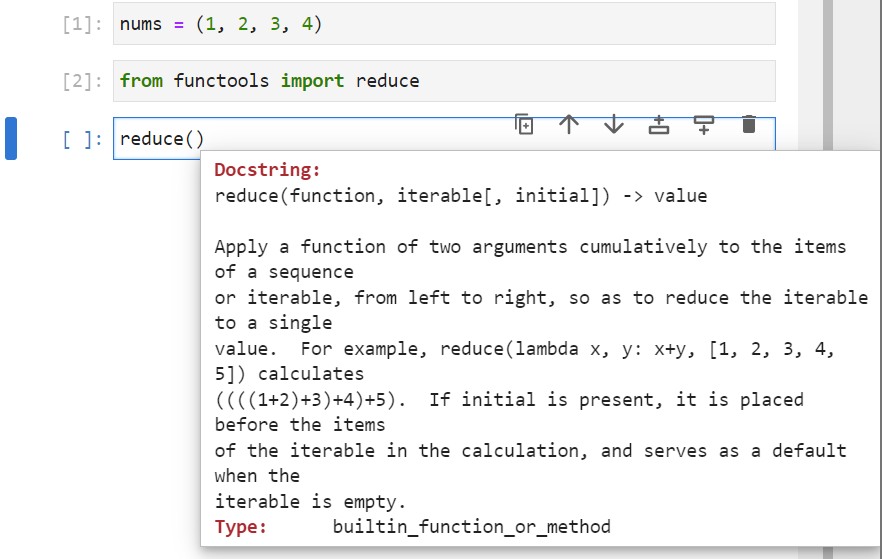
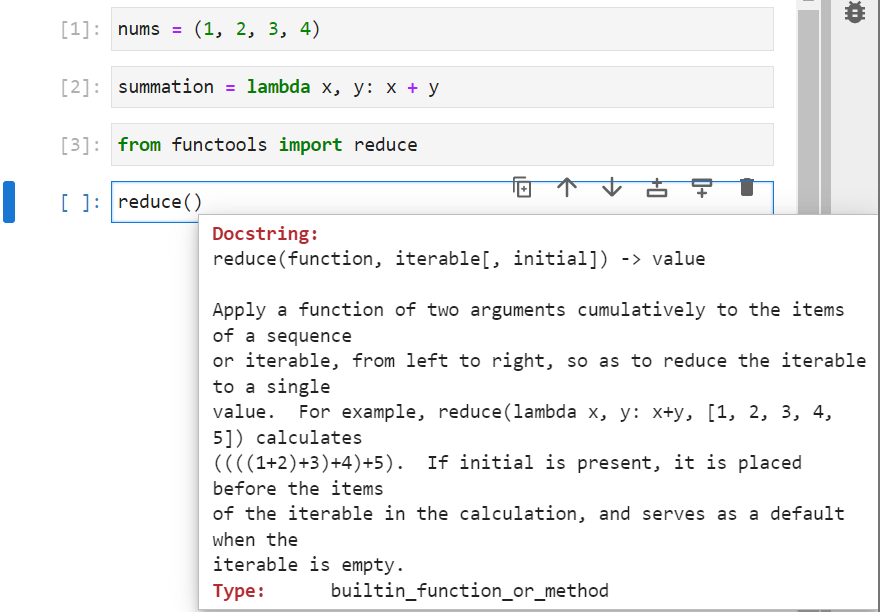
Update

Changed region(s): [[0.0614, 0.0, 1.0, 1.0], [0.0614, 0.0304, 0.3682, 0.0608], [0.0, 0.2129, 0.0307, 0.3649]]

diff --git a/007_code_blocks_a/readme.md b/007_code_blocks_a/readme.md
@@ -3236,7 +3236,11 @@ Sometimes it is desirable to ```reduce``` an iterable into a single value:
 nums = (1, 2, 3, 4)
 ```
 
-For example to calculate the sum or product of the iterable above.
+The following lambda expression will reduce two variables to a singular variable:
+
+```
+summation = lambda x, y: x + y
+```
 
 This can be done using the ```reduce``` function found in the ```functools``` module:
 
@@ -3246,32 +3250,26 @@ from functools import reduce
 
 ![img_265](./images/img_265.png)
 
-
-
-
-
-
-
-
-
-
-
-
-
-
-reduce(function, iterable)
-
 ```
-from functools import reduce
-reduce((lambda x, y: x + y), [1, 2, 3, 4])
+reduce(summation, nums)
 ```
 
-Under the hood, conceptualise this as a ```for``` loop. In the first iteration. ```x``` is initially ```1``` the value at the 0th index and ```y``` is initially ```2``` the value of the 1st index. The result ```x + y``` is therefore ```3```. In the second iteration ```x``` is taken to be this value of ```3``` and ```y``` is taken to be the value at the 2nd index, which is also ```3```. ```x + y``` is therefore ```6```. In the third iteration, ```x``` is taken to be the value of ```6``` and ```y``` is taken to be the value at the last index. The final ```x + y``` calculation is therefore ```10``` which is returned.
+![img_266](./images/img_266.png)
 
+Under the hood, conceptualise this as a ```for``` loop. In the first iteration. ```x``` is initially ```1``` the value at the 0th index and ```y``` is initially ```2``` the value of the 1st index. The result ```x + y``` is therefore ```3```. In the second iteration ```x``` is now taken to be the value of ```3``` calculated from the previous iteration and ```y``` is taken to be the value at the 2nd index, which is also ```3```. ```x + y``` is therefore calculated to be ```6```. In the third iteration, ```x``` is taken to be the value of the previous iteration ```6``` and ```y``` is taken to be the value at the last index. The final ```x + y``` calculation is therefore ```10``` which is returned.
 
+## try, except, else, finally
 
+Earlier ```if```, ```elif``` and ```else``` were examined to direct code in response to a condition. In Python there are four code blocks used for error handling
 
+|Code Block|Purpose|
+|---|---|
+|try|The try code block contains the code to be tested. It can run without any errors or execute can halt when an error is found.|
+|except|This code block will be used to handle an error type and is ignored when there is no error.|
+|else|This else code block will be ran if there is no error.|
+|finally|This code block is carried out regardless if there is an error or not.|
 
+These are normally used within a function, for example after asserting the data type of an input argument.
 
 
 
@@ -3299,16 +3297,9 @@ try, except, else and finally update.
 
 
 
-## try, except, else, finally
 
-Earlier we seen the use of if, elif and else statements to carry out different code blocks in response to a condition or conditions. In Python we have a similar structure setup for handling errors.
 
-|Code Block|Purpose|
-|---|---|
-|try|This code block will test the code for an expected error|
-|except|This code block will be used to handle an error type|
-|else|This code block will be used elsewise when there is no error|
-|finally|This code block is carried out regardless if there is an error or not|
+
 
 If the variable number is created and assigned to a string. Casting will work, if the string is recognised as numeric.
 
